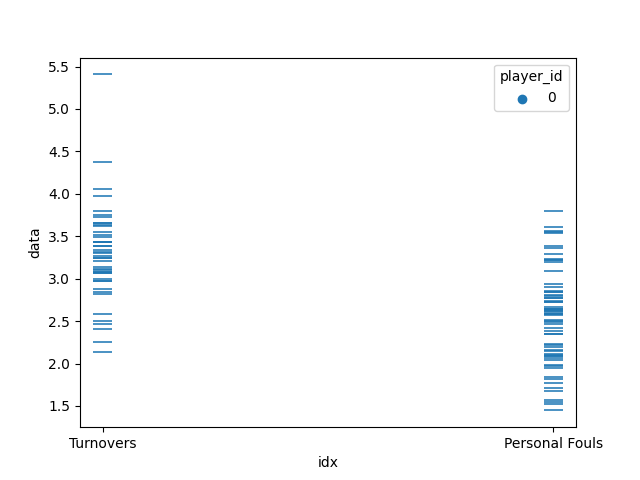
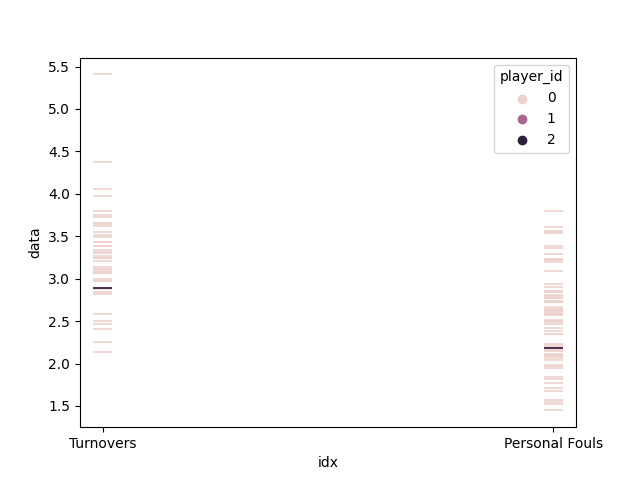
add func to add player to cat graph

diff --git a/graph.py b/graph.py
@@ -112,17 +112,39 @@ def gen_scatter_plot_by_cat(cats, per_game, label):
         r_df = pd.concat([r_df, r], axis=0)
         i += 1
 
+    tatum = pd.read_csv('data/this_year/tatum.csv')
+    luka = pd.read_csv('data/this_year/luka.csv')
+
+    r_df = add_player_info_to_cat(r_df, tatum, cats, True)
+    r_df = add_player_info_to_cat(r_df, luka, cats, True)
+
     sp = sns.scatterplot(data=r_df, x='idx', y='data', hue='player_id', marker='_', s=200)
     sp.set_xticks(list(range(len(cats))))
     sp.set_xticklabels([tag_to_label[c] for c in cats])
     plt.savefig('data/graphs/by_cat/{}.png'.format(label))
     plt.clf()
 
+def add_player_info_to_cat(data, player, rows, per_game):
+    r_df = data
+    max_player_id = data['player_id'].max()+1
+    i = 0
+    for row in rows:
+        r = pd.DataFrame()
+        if(per_game):
+            r['data'] = player[row]/player['G']
+        else:
+            r['data'] = player[row]
+        r['idx'] = i
+        r['player_id'] = max_player_id
+        r_df = pd.concat([r_df, r], axis=0)
+        i += 1
+
+    return r_df
+
 BASIC_OFFENSIVE_COUNTING_STATS = (['PTS', 'REB', 'AST'], 'Offensive Counting Stats')
 BASIC_DEFENSIVE_COUNTING_STATS = (['BLK', 'STL'], 'Defensive Counting Stats')
 BASIC_BAD_STATS = (['TOV', 'PF'], 'Negative Counting Stats')
-ADVANCED_STATS = (['PER','OWS','DWS','WS','OBPM','DBPM','BPM','VORP'], 'Advanced Stats')
+ADVANCED_STATS = (['OWS','DWS','WS','OBPM','DBPM','BPM','VORP', 'PER'], 'Advanced Stats')
 
-
-#gen_scatter_plot_by_year('TOV', True)
-gen_scatter_plot_by_cat(ADVANCED_STATS[0], True, ADVANCED_STATS[1])
+gen_scatter_plot_by_year('TOV', True)
+gen_scatter_plot_by_cat(ADVANCED_STATS[0], False, ADVANCED_STATS[1])
